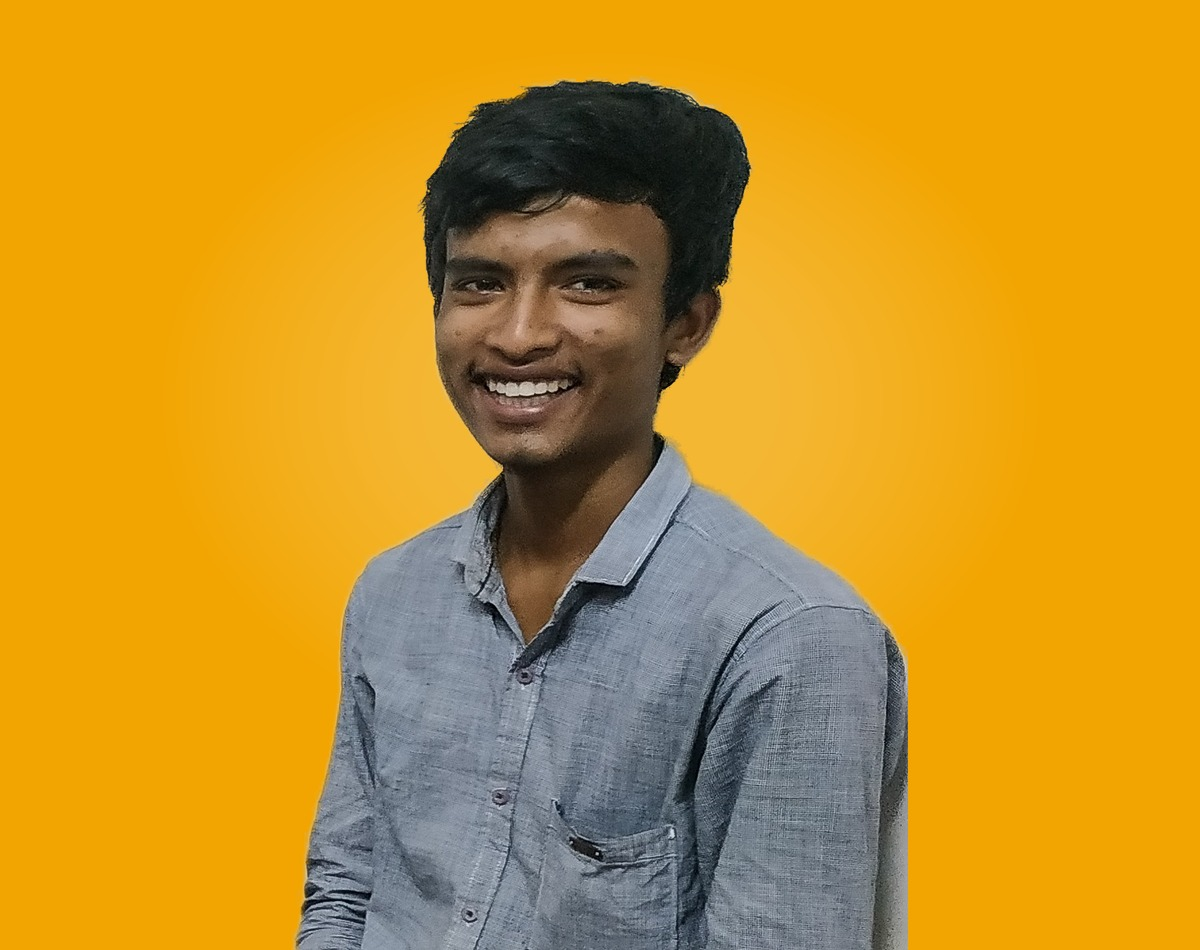
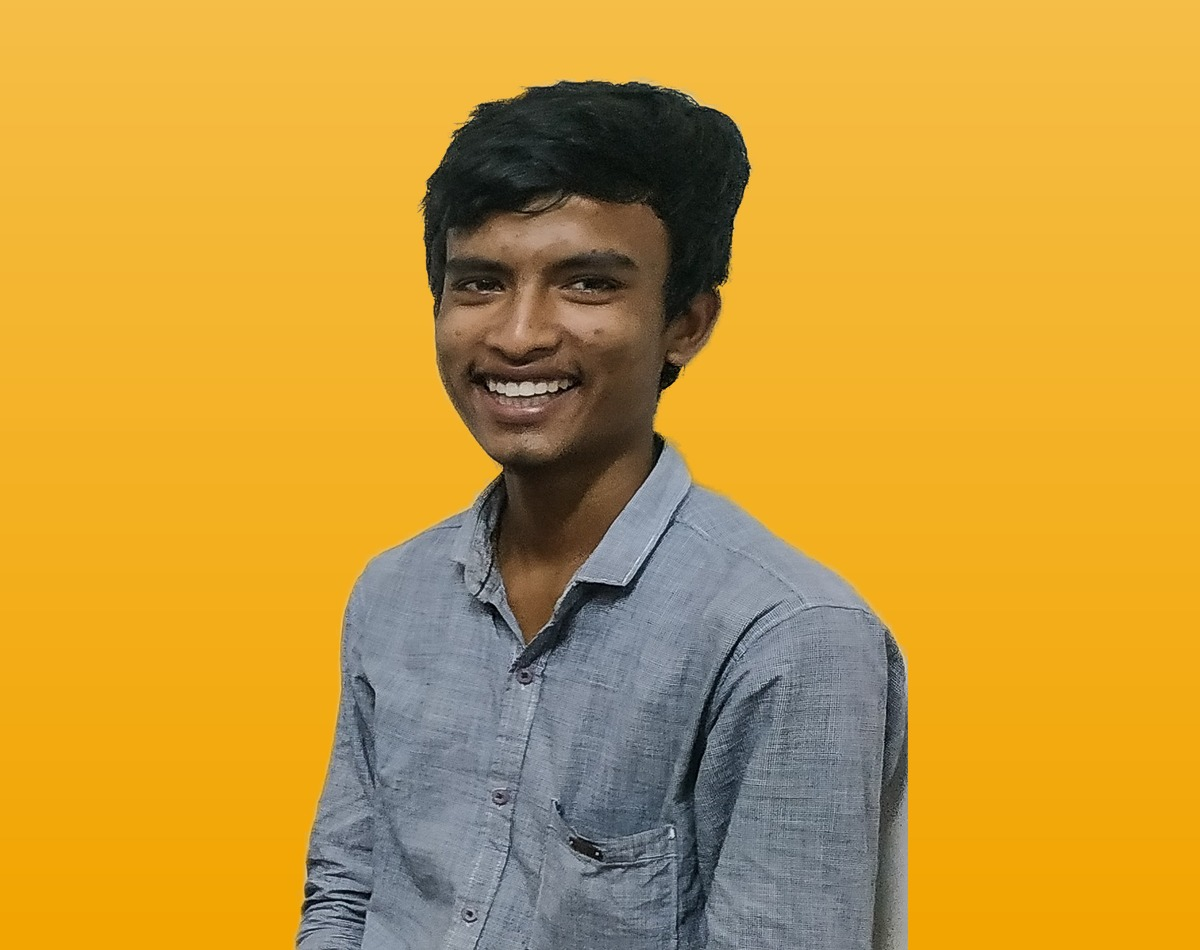
Here’s what has been done so far:
- Every photo inside the chevron shapes now features a smooth gradient background, lighter at the top and flowing into the full shape colour at the bottom, applied across all four rotating scholar journeys.
- The colour border around the shapes has been removed so the gradient flows smoothly right to the edge, creating a clean sweep of colour without any band or shadow.
- The gap between the five shapes has been increased, providing each scholar photo more breathing room.

I have tested this by opening the preview and capturing both the strip and a magnified close-up — the gradient is visible within every shape, edges look clean, spacing is wider, and the 2.5-second rotation cycles through all four journeys.

Credentials & handoff details: admin access is available at /admin with passcode rc-aimgame-admin-2026. Donations remain simulated until Razorpay keys are provided.

Please open the preview and check the updated look. Let me know if you notice any issues or if it works as expected. Based on your feedback, I can proceed with further enhancements.

Next Action Items:
- More Scholar Sets: Send the next scholar's five journey photos to add a fifth rotating set similarly.
- Real Center Photos: Make the Kolkata and Pune Drive folders public or upload photos to display real spaces in Our Story.
- 80G Registration Details: Provide your 80G number and validity dates to complete the footer's legal line.
[…]

diff --git a/frontend/src/pages/Home.jsx b/frontend/src/pages/Home.jsx
@@ -30,7 +30,7 @@ const ScholarStrip = () => {
     <div
       data-testid="hero-scholar-strip"
       className="absolute top-[2.5%] h-[44.5%] left-[1.75%] right-[1.75%] flex"
-      style={{ gap: "0.8%" }}
+      style={{ gap: "2%" }}
     >
       {PANEL_COLORS.map((color, i) => (
         <div

diff --git a/.image-sources/reprocess_all.py b/.image-sources/reprocess_all.py
@@ -10,16 +10,17 @@ def hex2rgb(h):
     h = h.lstrip('#')
     return np.array([int(h[i:i+2], 16) for i in (0, 2, 4)], dtype=float)
 
-def gradient_bg(size, hexcolor, cx=0.5, cy=0.42):
-    # tight glow behind subject, EXACT panel colour well before edges (no colour band at outline)
+def gradient_arr(size, hexcolor):
+    # smooth vertical gradient: light tint of panel colour at top -> exact panel colour at bottom
     w, h = size
     base = hex2rgb(hexcolor)
-    center = base + (255 - base) * 0.20
-    yy, xx = np.mgrid[0:h, 0:w]
-    t = np.clip(np.sqrt(((xx/w-cx)*2)**2 + ((yy/h-cy)*2)**2), 0, 1)
-    t = np.clip((t - 0.30) / 0.45, 0, 1) ** 1.2   # glow pure to 30% radius, exact base from 75%
-    img = (center * (1 - t[..., None]) + base * t[..., None]).astype(np.uint8)
-    return Image.fromarray(img, 'RGB').convert('RGBA')
+    top = base + (255 - base) * 0.28
+    yy = (np.arange(h, dtype=float) / max(h - 1, 1))[:, None, None]
+    img = top * (1 - yy) + base * yy
+    return np.ascontiguousarray(np.broadcast_to(img, (h, w, 3))).astype(np.uint8)
+
+def gradient_bg(size, hexcolor, cx=0.5, cy=0.42):
+    return Image.fromarray(gradient_arr(size, hexcolor), 'RGB').convert('RGBA')
 
 def clean_alpha(an, lo=18, min_island=2500):
     an = an.astype(float)
@@ -126,10 +127,7 @@ subj = cut.resize((max(1,int(cut.width*scale)), max(1,int(cut.height*scale))), I
 bg.alpha_composite(subj, ((CANVAS[0]-subj.width)//2, CANVAS[1]-subj.height))
 comp = np.array(bg.convert('RGB'))
 w, h = CANVAS
-yy, xx = np.mgrid[0:h, 0:w]
-t = np.clip(np.sqrt(((xx/w-0.5)*2)**2 + ((yy/h-0.42)*2)**2), 0, 1)
-t = np.clip((t - 0.30) / 0.45, 0, 1) ** 1.2
-base = hex2rgb(PANEL[1]); grad = ((base + (255-base)*0.20)*(1-t[..., None]) + base*t[..., None]).astype(np.uint8)
+grad = gradient_arr(CANVAS, PANEL[1])
 def paint(x0, y0, x1, y1):
     comp[y0:y1, x0:x1] = grad[y0:y1, x0:x1]
 paint(575, 555, 648, 695)

diff --git a/memory/PRD.md b/memory/PRD.md
@@ -132,3 +132,4 @@ Brief (from PDF): A rebooted website for Responsible Charity (RC) Society, a reg
 - Scholar strip (Oct 17): added FOURTH rotating set (Firdous's journey) as scholar-d-1..5 — scoreboard boy (board kept via rect-union), guitar teen (chair/stand-guitar/ghosts removed via targeted mask cleanup + gradient paint-over on composite), schoolboy at bank, maroon-shirt portrait (from college-admission graphic), graduate with scroll. Rotation now cycles 4 sets every 2.5s. Verified set D renders + full loop in browser. Source uploads: "1.jpeg", "2 (6).webp", "3 (6).webp", "4.jpeg", "Screenshot 2026-10-17 at 12.32.52 PM.png"
 - Scholar strip (Oct 17): removed the dark shadow rim from ALL shapes — reprocessed all 20 chevron photos (tl + scholar-b/c/d) so backgrounds keep the soft centre glow but fade to the EXACT panel colour at edges (edge factor 1.0, was 0.62). Same cutouts/compositions as before. Full pipeline saved at /app/.image-sources/reprocess_all.py; all 20 original source photos persisted in /app/.image-sources/set{a,b,c,d}/ (survive pod restarts, unlike /tmp). Verified in browser
 - Scholar strip (Oct 17, final edge fix): tightened the background glow (pure glow within 30% radius, exact panel colour from 75% outward) so no lighter/darker colour band approaches the chevron outline — shapes read as one clean flat colour at the edges. Applied to all 20 photos via /app/.image-sources/reprocess_all.py. Verified with close-up browser captures of the chevron edges
+- Scholar strip (Oct 17): backgrounds now use a smooth vertical gradient (28% light tint of panel colour at top -> exact panel colour at bottom) for all 20 photos — visible gradient inside each shape with no colour band at the outline. Gap between chevron shapes increased 0.8% -> 2% in Home.jsx ScholarStrip. Verified in browser
